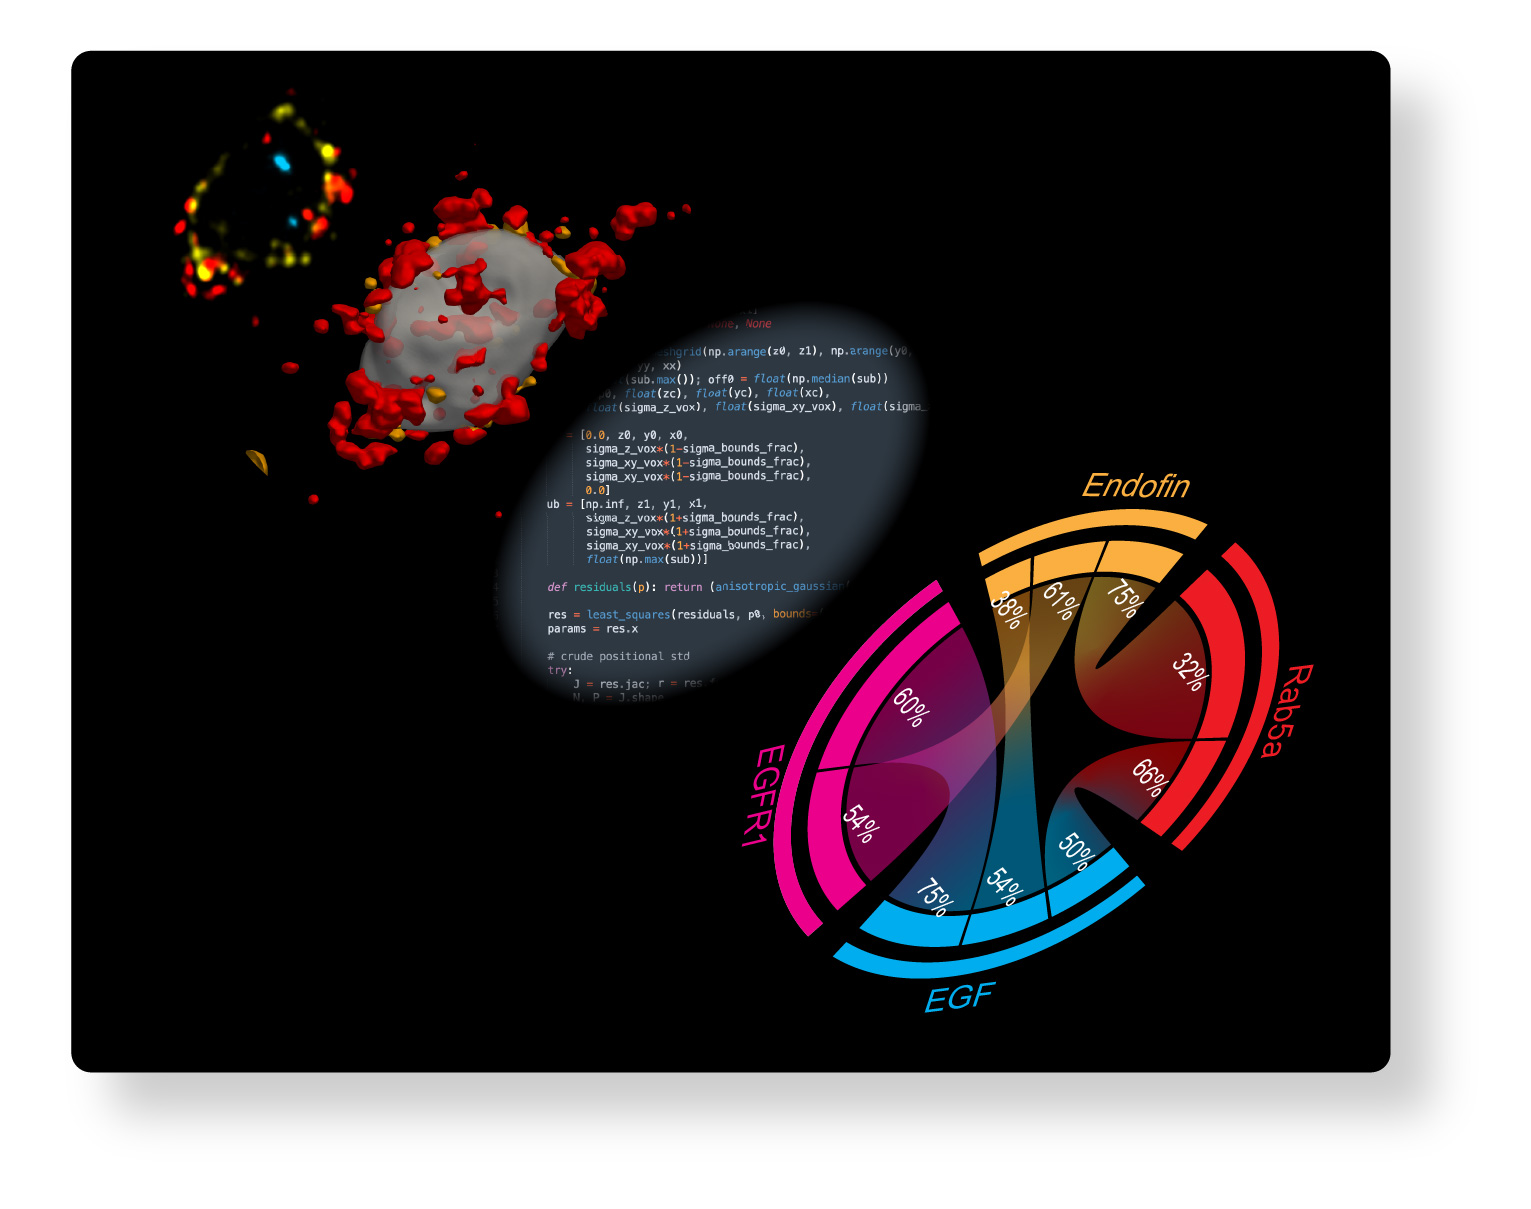
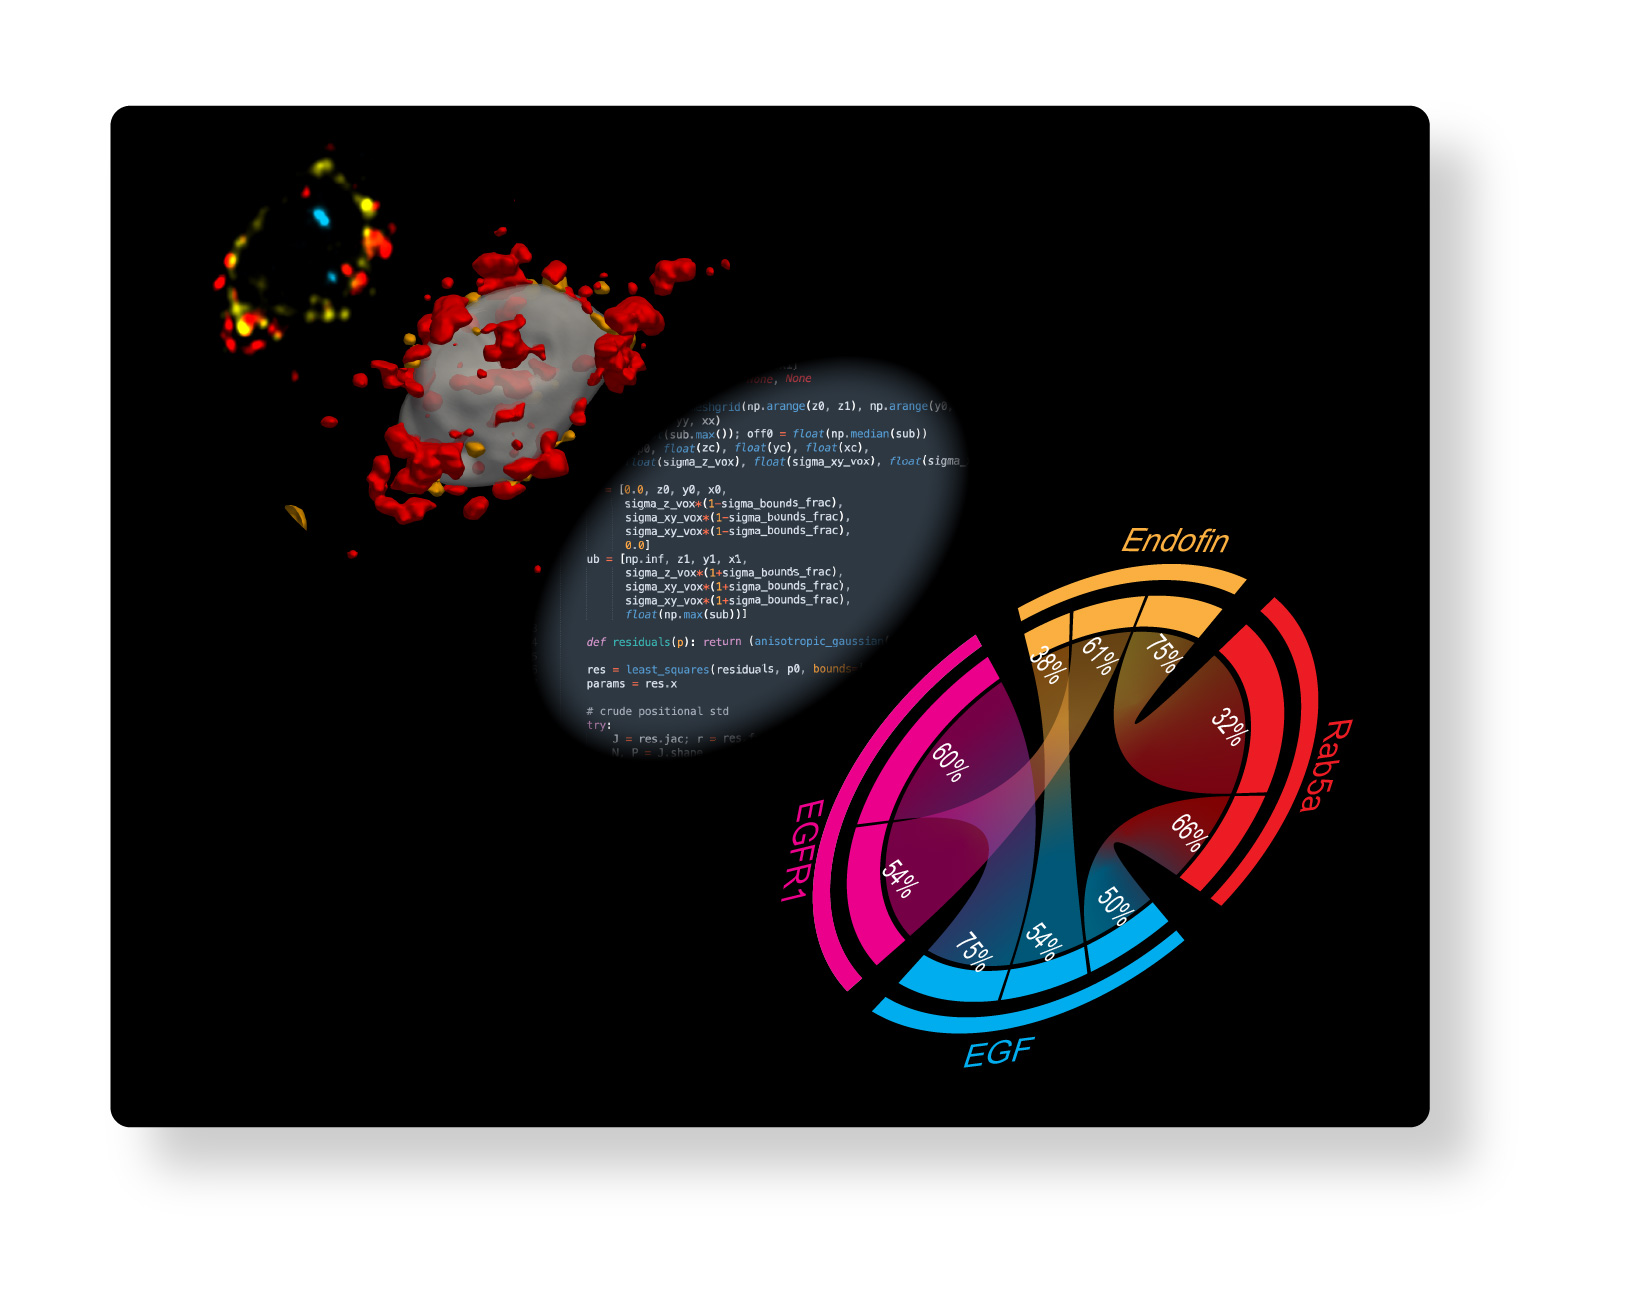
Deploying to gh-pages from @ ijayas/signalling-nanodomains.org@d35373d04d4d8d2d2459581ff8b33badb6e7349d 🚀

Changed region(s): [[0.0307, 0.0306, 0.9517, 0.9181], [0.1535, 0.3672, 0.1842, 0.3978]]

diff --git a/2019/04/06/How-I-got-my-UKRI-Future-Leader-Fellowship.html b/2019/04/06/How-I-got-my-UKRI-Future-Leader-Fellowship.html
@@ -62,10 +62,10 @@
 
   <meta name="author" content="izzy-jayasinghe">
   <meta property="og:type" content="article">
-  <meta property="og:updated_time" content="2026-06-28T11:28:03+00:00">
+  <meta property="og:updated_time" content="2026-06-28T11:33:27+00:00">
   <meta property="article:published_time" content="2019-04-06T00:00:00+00:00">
-  <meta property="article:modified_time" content="2026-06-28T11:28:03+00:00">
-  <meta name="revised" content="2026-06-28T11:28:03+00:00">
+  <meta property="article:modified_time" content="2026-06-28T11:33:27+00:00">
+  <meta name="revised" content="2026-06-28T11:33:27+00:00">
 
 
 <script type="application/ld+json">
@@ -75,7 +75,7 @@
       "@type": "BlogPosting",
       "author": { "@type": "Person", "name": "How I got my UKRI Future Leader Fellowship" },
       "datePublished": "2019-04-06T00:00:00+00:00",
-      "dateModified": "2026-06-28T11:28:03+00:00",
+      "dateModified": "2026-06-28T11:33:27+00:00",
     
     "name": "How I got my UKRI Future Leader Fellowship",
     "description": "Visualising the structures of intracellular communication, one molecule at a time. An engaging 1-3 sentence description of your lab.",

diff --git a/2023/11/19/A-3D-printable-microplate-for-distortion-detection-in-expansion-microscopy.html b/2023/11/19/A-3D-printable-microplate-for-distortion-detection-in-expansion-microscopy.html
@@ -62,10 +62,10 @@
 
   <meta name="author" content="izzy-jayasinghe">
   <meta property="og:type" content="article">
-  <meta property="og:updated_time" content="2026-06-28T11:28:03+00:00">
+  <meta property="og:updated_time" content="2026-06-28T11:33:27+00:00">
   <meta property="article:published_time" content="2023-11-19T00:00:00+00:00">
-  <meta property="article:modified_time" content="2026-06-28T11:28:03+00:00">
-  <meta name="revised" content="2026-06-28T11:28:03+00:00">
+  <meta property="article:modified_time" content="2026-06-28T11:33:27+00:00">
+  <meta name="revised" content="2026-06-28T11:33:27+00:00">
 
 
 <script type="application/ld+json">
@@ -75,7 +75,7 @@
       "@type": "BlogPosting",
       "author": { "@type": "Person", "name": "A 3D printable microplate for distortion detection in expansion microscopy" },
       "datePublished": "2023-11-19T00:00:00+00:00",
-      "dateModified": "2026-06-28T11:28:03+00:00",
+      "dateModified": "2026-06-28T11:33:27+00:00",
     
     "name": "A 3D printable microplate for distortion detection in expansion microscopy",
     "description": "Visualising the structures of intracellular communication, one molecule at a time. An engaging 1-3 sentence description of your lab.",

diff --git a/2026/04/15/New-paper-on-calibrating-expansion-microscopy-to-map-receptor-sorting-domains-in-endosomes.html b/2026/04/15/New-paper-on-calibrating-expansion-microscopy-to-map-receptor-sorting-domains-in-endosomes.html
@@ -62,10 +62,10 @@
 
   <meta name="author" content="izzy-jayasinghe">
   <meta property="og:type" content="article">
-  <meta property="og:updated_time" content="2026-06-28T11:28:03+00:00">
+  <meta property="og:updated_time" content="2026-06-28T11:33:27+00:00">
   <meta property="article:published_time" content="2026-04-15T00:00:00+00:00">
-  <meta property="article:modified_time" content="2026-06-28T11:28:03+00:00">
-  <meta name="revised" content="2026-06-28T11:28:03+00:00">
+  <meta property="article:modified_time" content="2026-06-28T11:33:27+00:00">
+  <meta name="revised" content="2026-06-28T11:33:27+00:00">
 
 
 <script type="application/ld+json">
@@ -75,7 +75,7 @@
       "@type": "BlogPosting",
       "author": { "@type": "Person", "name": "New paper on calibrating expansion microscopy to map receptor sorting domains in endosomes" },
       "datePublished": "2026-04-15T00:00:00+00:00",
-      "dateModified": "2026-06-28T11:28:03+00:00",
+      "dateModified": "2026-06-28T11:33:27+00:00",
     
     "name": "New paper on calibrating expansion microscopy to map receptor sorting domains in endosomes",
     "description": "Visualising the structures of intracellular communication, one molecule at a time. An engaging 1-3 sentence description of your lab.",